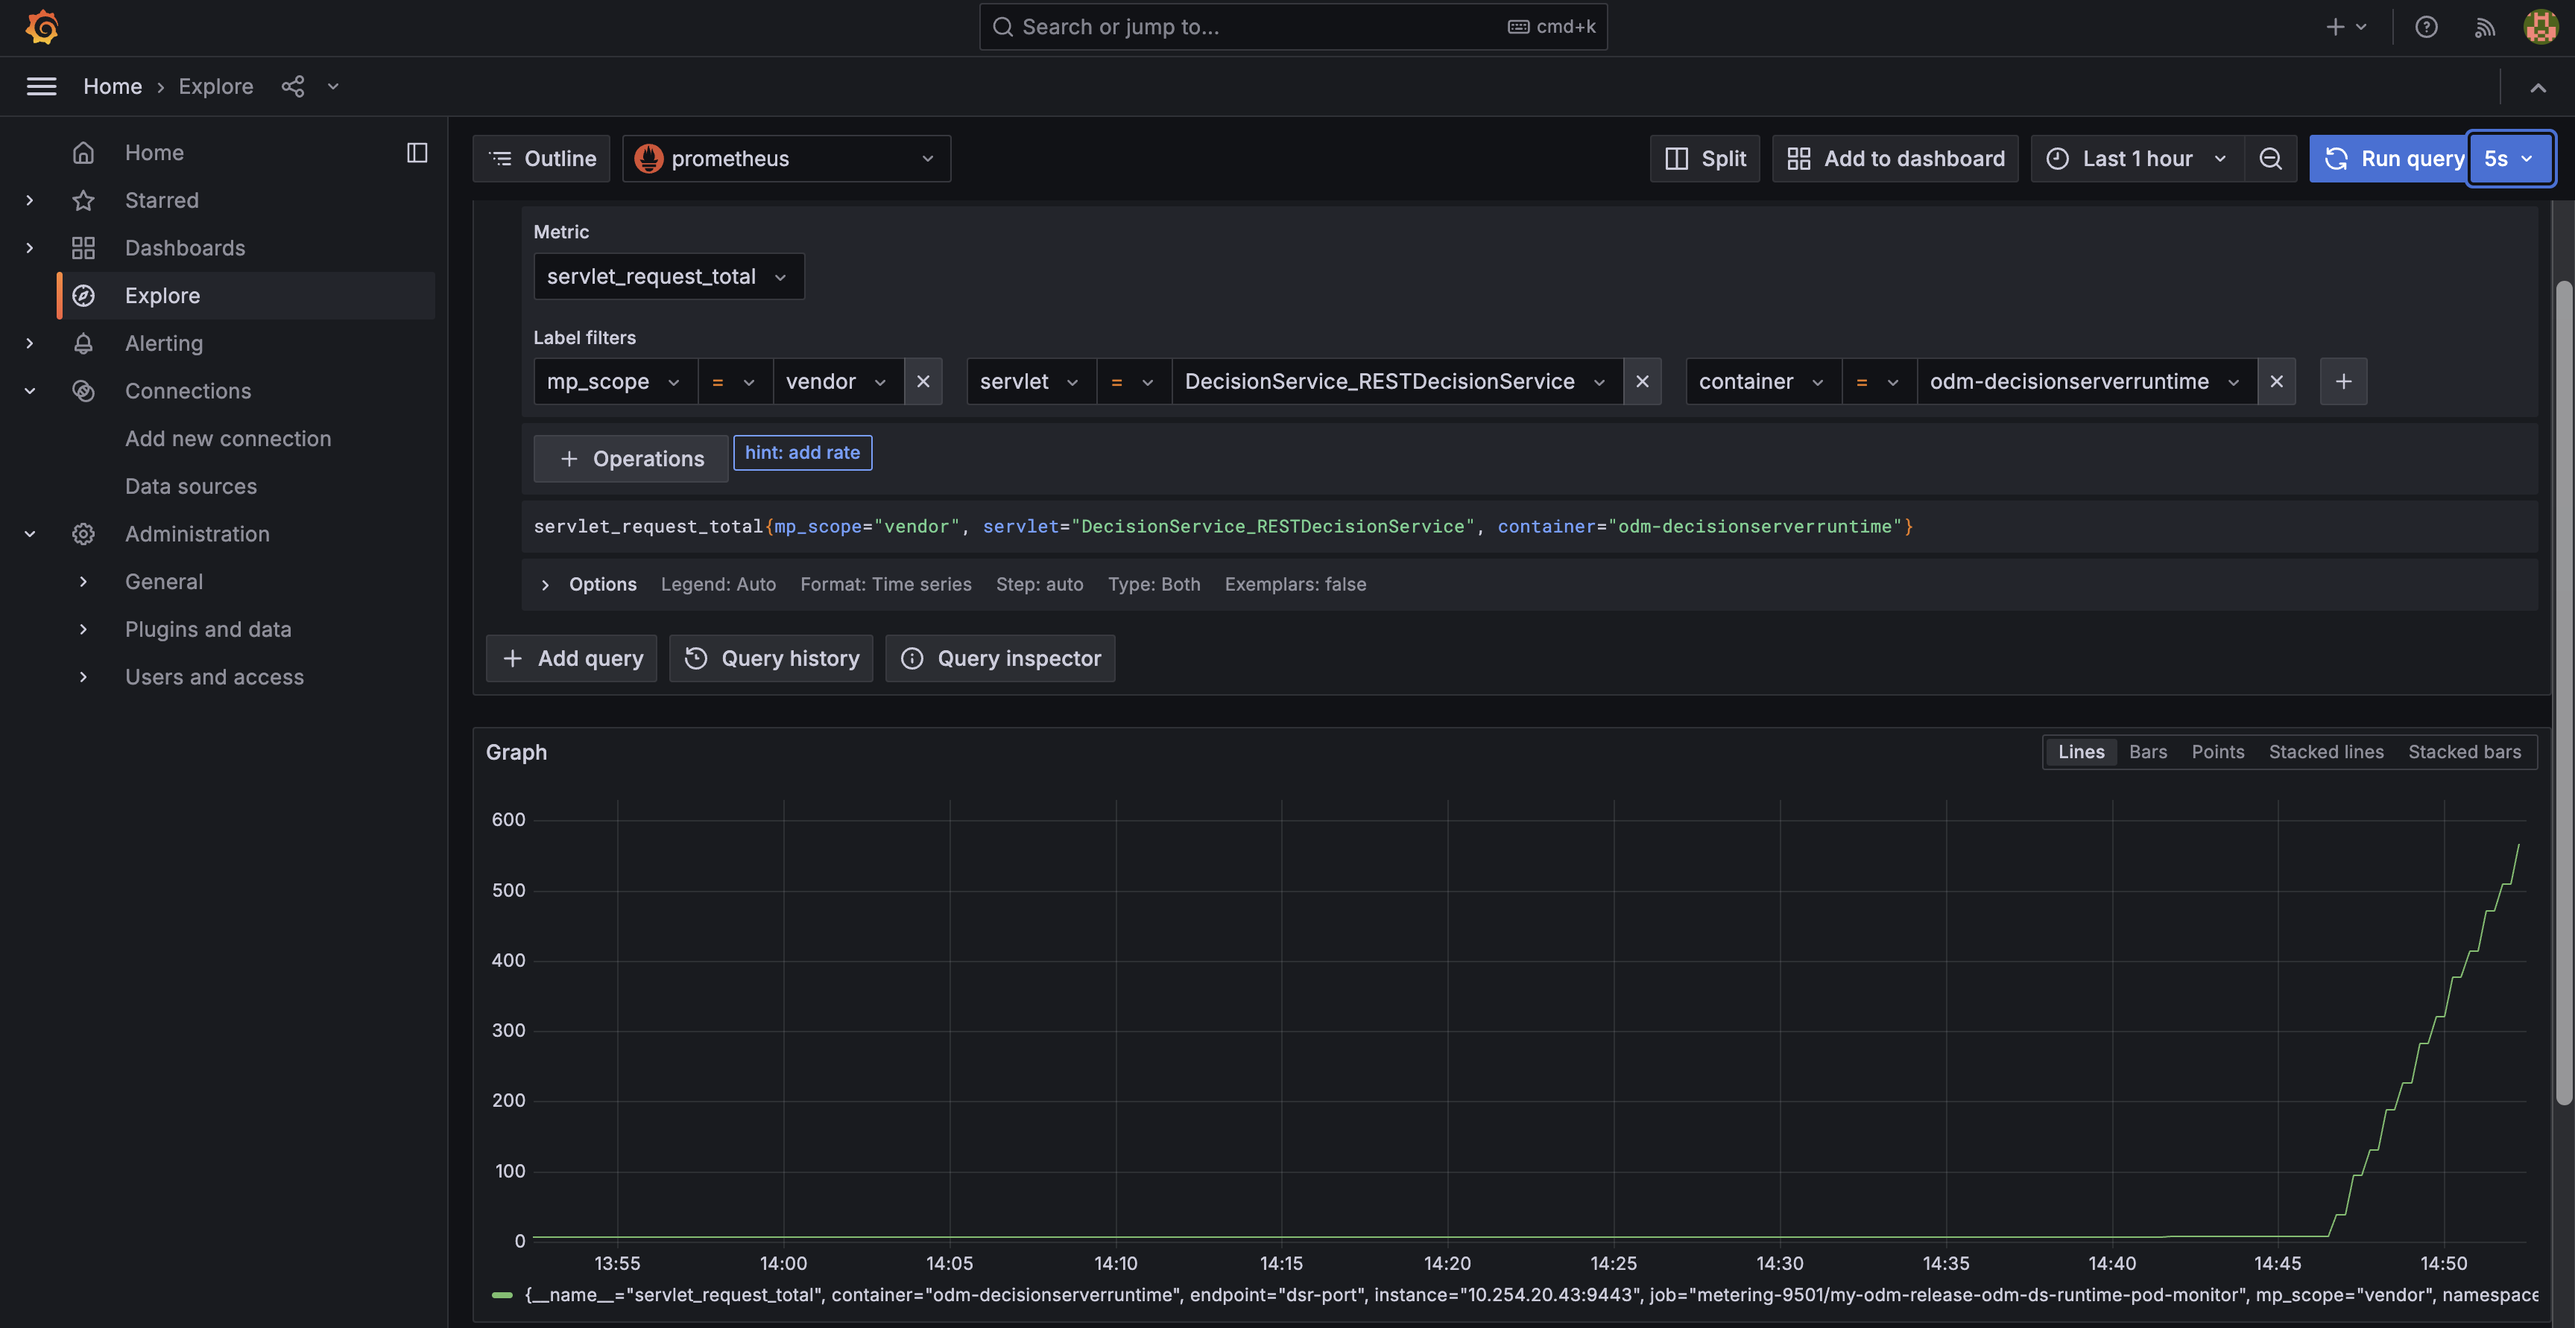
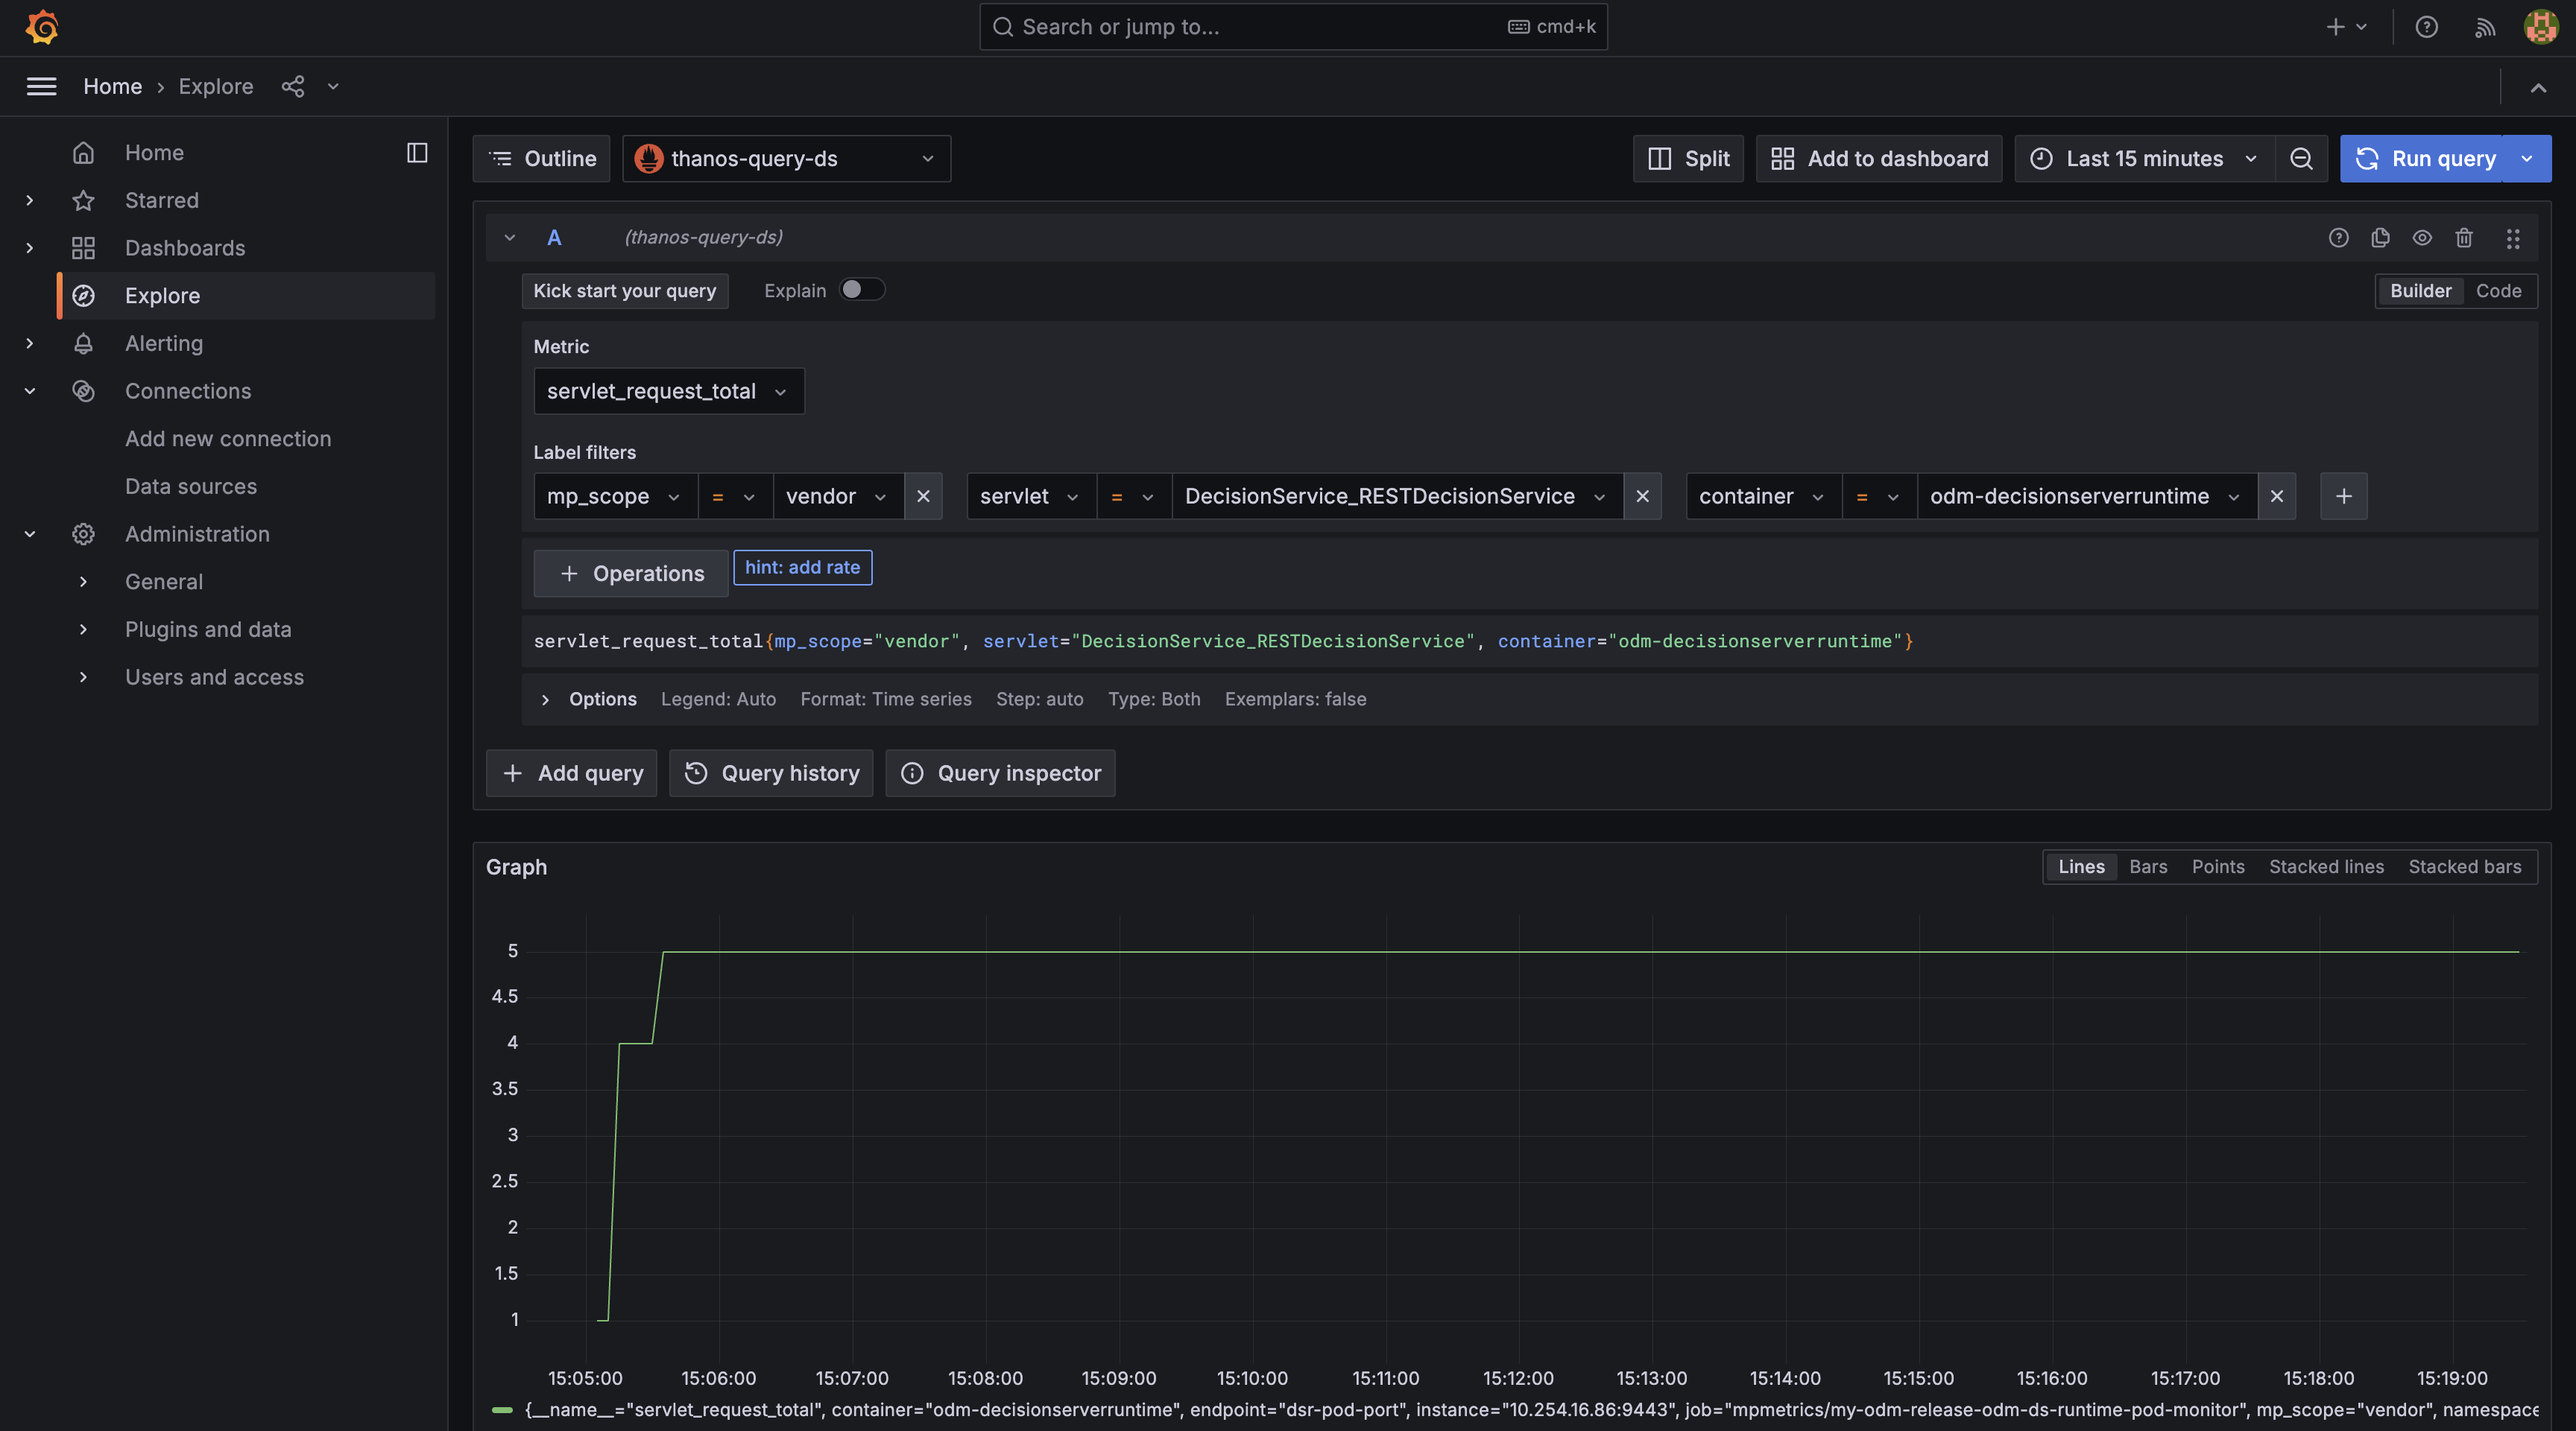
mpmetrics review

diff --git a/contrib/monitor/mpmetrics/README.md b/contrib/monitor/mpmetrics/README.md
@@ -71,14 +71,14 @@ Create the monitor-secret
   ```shell
   helm search repo ibm-odm-prod
   NAME                  	CHART VERSION	APP VERSION	DESCRIPTION
-  ibm-helm/ibm-odm-prod	  25.1.0       	9.5.0.1   	IBM Operational Decision Manager
+  ibm-helm/ibm-odm-prod	  26.0.0       	9.6.0.0   	IBM Operational Decision Manager
   ```
 
 ### 3. Run the `helm install` command
 
 You can now install the product. We will use the PostgreSQL internal database and disable data persistence (`internalDatabase.persistence.enabled=false`) to avoid any platform complexity with persistent volume allocation.
 
-See the [Preparing to install](https://www.ibm.com/docs/en/odm/9.5.0?topic=production-preparing-install-operational-decision-manager) documentation for more information.
+See the [Preparing to install](https://www.ibm.com/docs/en/odm/9.6.0?topic=production-preparing-install-operational-decision-manager) documentation for more information.
 
 ```shell
 helm install my-odm-release ibm-helm/ibm-odm-prod -f monitor-values.yaml
@@ -155,7 +155,7 @@ kubectl create -f enableMetricsConfigMap.yaml
 ### Check that ODM targets are available
 
 The ODM Helm chart instance has created a PodMonitor k8s resource that you can retrieve now in the OCP dashboard.
-* Drill at Observe > Target
+* Drill at Observe > Targets
 * Click on Filter and check **User**
  
 You should see the 4 ODM metrics endpoints
@@ -173,6 +173,10 @@ For example put **gc_total** in the **Expression** field and click on the **Run 
 
 If you are interested in servlet requests managed by the runtime, you can use the query **servlet_request_total{mp_scope="vendor",servlet="DecisionService_RESTDecisionService"}**
 For example, by monitoring this metrics, you can check the behaviour of the load balancer is correct if all Decision Server Runtime replicas are receiving almost the same number of requests like in the following screenshot.
+
+ > Note: 
+ > **servlet_request_total{mp_scope="vendor",servlet="DecisionService_RESTDecisionService"}** is accessible when at least a request 
+ > as been sent to Decision Server Runtime. 
  
 ![Runtime Servlet Request](./images/RuntimeRequest.png)
 
@@ -224,10 +228,12 @@ EOF
 oc -n openshift-operators get routes grafana-route -o jsonpath="https://{.status.ingress[].host}"
 ```
 
-5/ You can use this dashboard to help spot performance issues. For instance, metrics such as servlet response times, CPU or heap usage when seen as a time-series on Grafana, could be indicative of an underlying performance issue or memory leak.
+5/ Login using **admin/admin**
+
+6/ You can use this dashboard to help spot performance issues. For instance, metrics such as servlet response times, CPU or heap usage when seen as a time-series on Grafana, could be indicative of an underlying performance issue or memory leak.
 
 * Click on the **Explore** tab on left part
-  * Select **prometheus** as Outline
+  * Select **thanos-query-ds** as Outline
     * Select the **servlet_request_total** metric
       * Add the **mp_scope=vendor** label filter
       * Add the **servlet=DecisionService_RESTDecisionService** label filter
